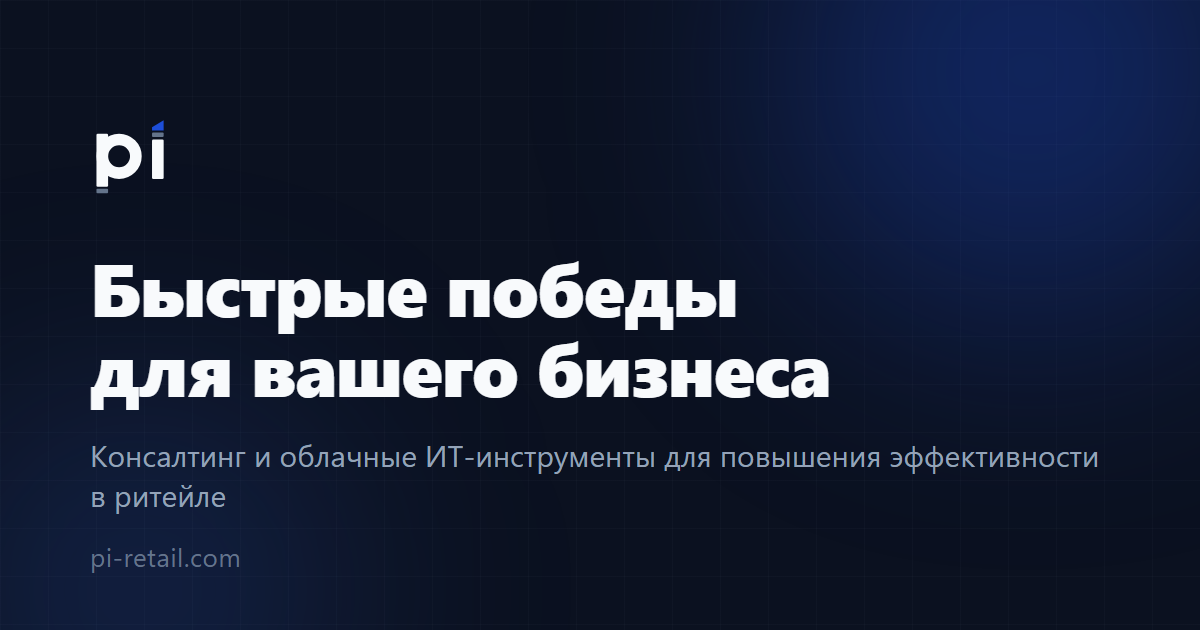
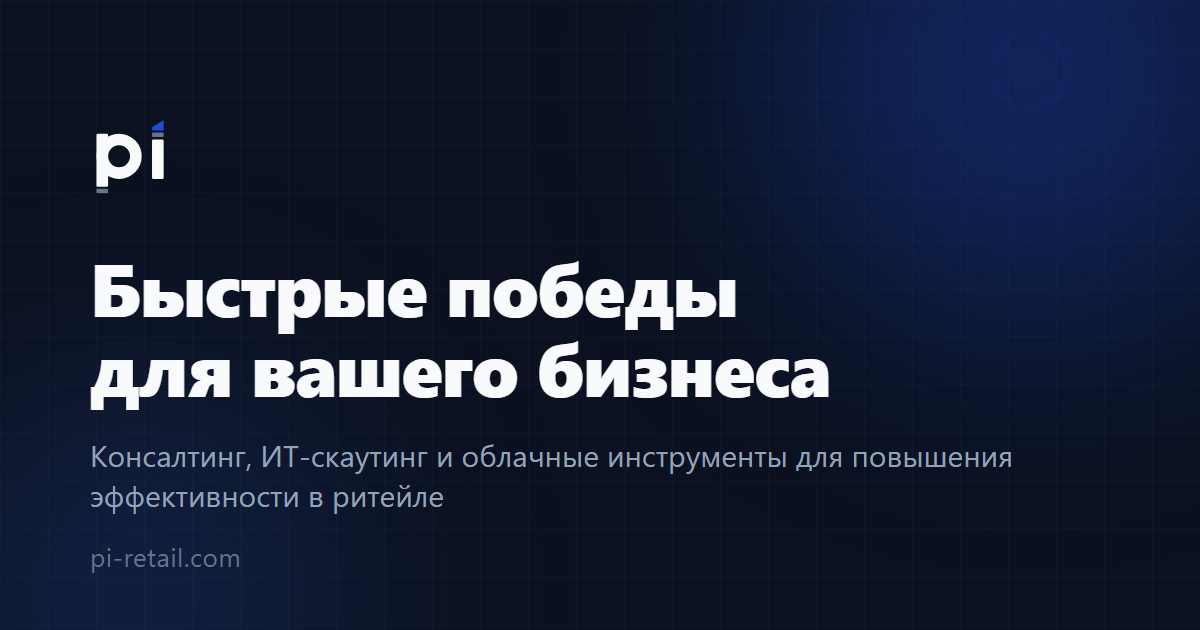
Meta + OG card: add ИТ-скаутинг after консалтинг

Changed region(s): [[0.2158, 0.6937, 0.925, 0.754], [0.0617, 0.754, 0.37, 0.8143]]

diff --git a/src/lib/i18n.js b/src/lib/i18n.js
@@ -21,7 +21,7 @@ export const dict = {
 		meta: {
 			title: 'pi-retail | Быстрые победы для вашего бизнеса',
 			description:
-				'pi-retail — консалтинг и разработка ПО для повышения эффективности процессов в ритейле. 20+ лет опыта, 30+ проектов, измеримый результат «под ключ».'
+				'pi-retail — консалтинг, ИТ-скаутинг и разработка ПО для повышения эффективности процессов в ритейле. 20+ лет опыта, 30+ проектов, измеримый результат «под ключ».'
 		},
 		nav: { about: 'О нас', services: 'Услуги', products: 'Продукты', projects: 'Проекты', contact: 'Контакты', cta: 'Написать нам' },
 		hero: {
@@ -215,7 +215,7 @@ export const dict = {
 		meta: {
 			title: 'pi-retail — fast wins for your business',
 			description:
-				'pi-retail — consulting and software development for process efficiency in retail. 20+ years of experience, 30+ projects, measurable turnkey results.'
+				'pi-retail — consulting, IT scouting and software development for process efficiency in retail. 20+ years of experience, 30+ projects, measurable turnkey results.'
 		},
 		nav: { about: 'About', services: 'Services', products: 'Products', projects: 'Projects', contact: 'Contact', cta: 'Get in touch' },
 		hero: {